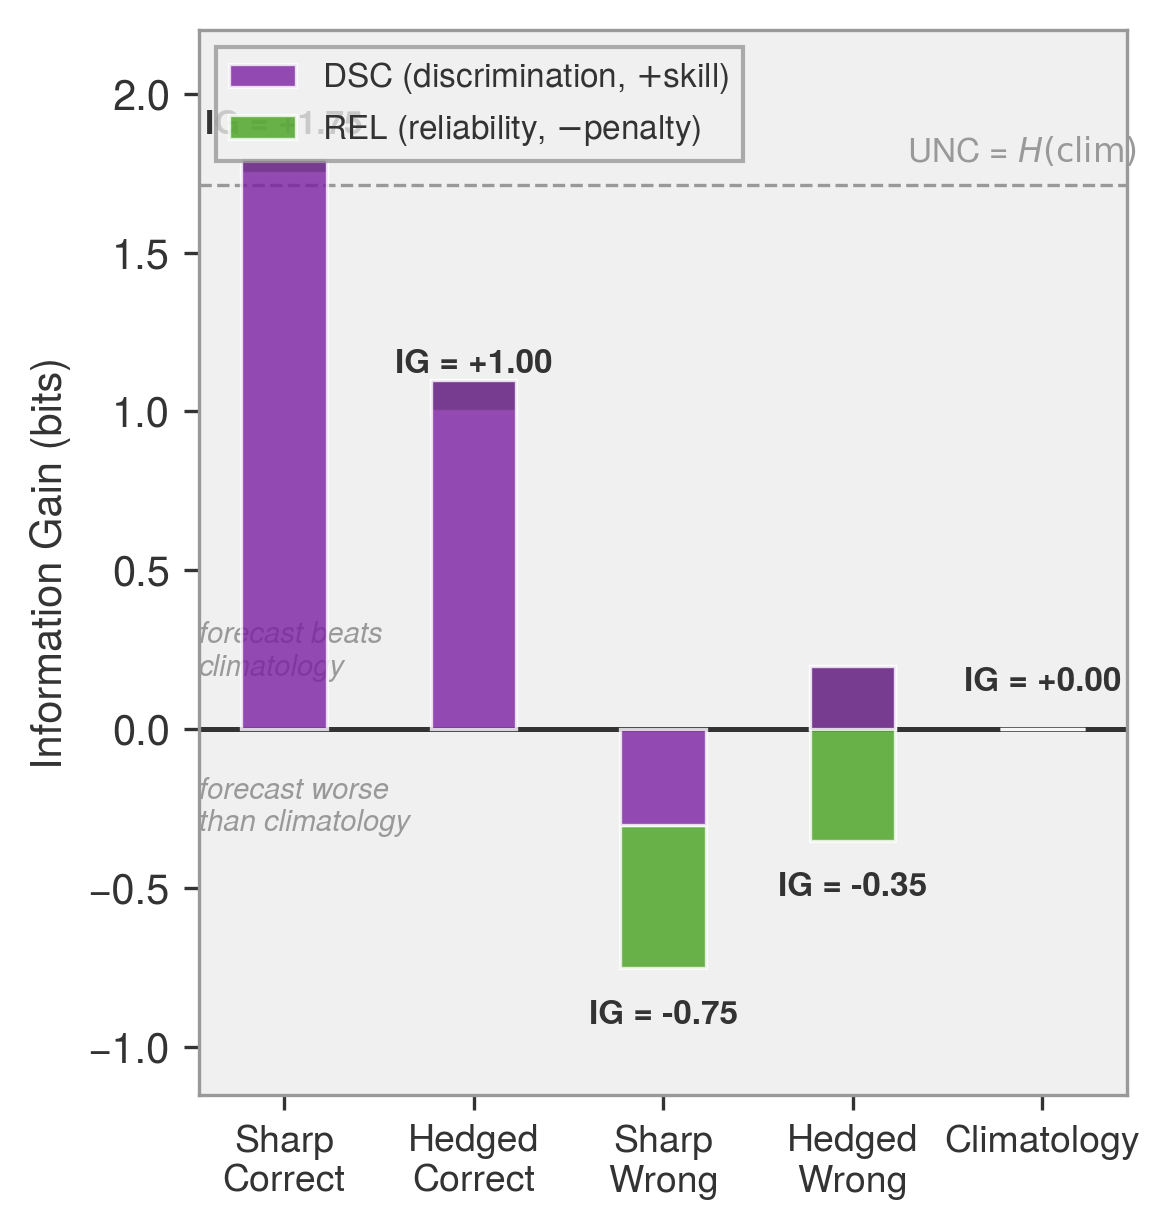
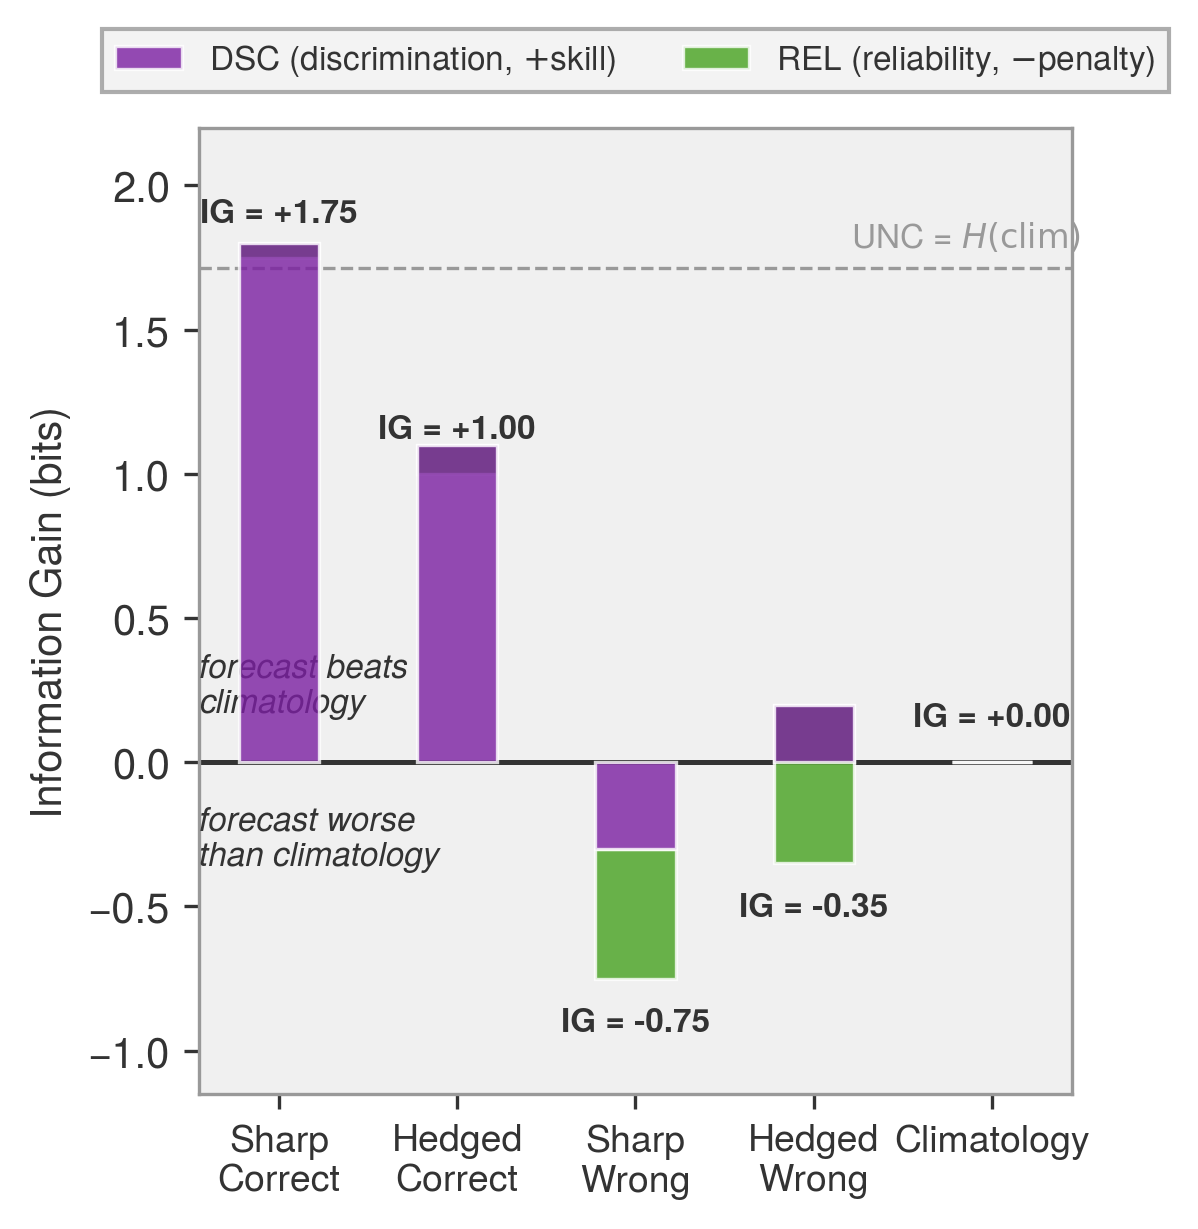
Annotation clarity: bold-first labels, green arrows, H_Pi gaps, overbar text
Fig 1: bold plain-language name above each equation annotation.
Fig 2: green connection arrows, y=1 annotation, y-axes-differ note.
Fig 3: legend outside axes, region labels stronger (8pt, darker).
Fig 10: per-panel H_Pi gap bracket with dashed Pi_max line.
§4 LaTeX: overbar text now non-prescriptive (practitioner chooses
aggregation); anchor → scenario in commitment-diagram discussion.

diff --git a/scripts/fig_pignistic_bridge.py b/scripts/fig_pignistic_bridge.py
@@ -67,7 +67,11 @@ def main():
     ax_l.set_title("Raw Possibility Distribution", fontsize=10,
                     fontweight="bold", pad=8)
     ax_l.set_ylim(0, 1.10)
-    ax_l.axhline(1.0, linestyle=":", linewidth=0.6, color=MID_GREY, zorder=1)
+    ax_l.axhline(1.0, linestyle="--", linewidth=0.8, color=GREEN, zorder=1,
+                 alpha=0.7)
+    ax_l.text(SPC_N - 0.6, 1.03,
+              r"$\pi = 1$ (no ignorance)",
+              fontsize=7.5, fontstyle="italic", color=GREEN, ha="right")
 
     # --- Right panel: (n+1)-category probability distribution ---
     right_labels = list(SPC_CATEGORIES) + ["IGN"]
@@ -97,7 +101,7 @@ def main():
         con = ConnectionPatch(
             xyA=(x_left[i], pi[i]), coordsA=ax_l.transData,
             xyB=(x_right[i], p_cats[i]), coordsB=ax_r.transData,
-            arrowstyle="->", color=MID_GREY, linewidth=0.8,
+            arrowstyle="->", color=GREEN, linewidth=0.8,
             connectionstyle="arc3,rad=0.12",
         )
         fig.add_artist(con)
@@ -107,7 +111,7 @@ def main():
         xyA=(x_left[int(np.argmax(pi))], pi.max()),
         coordsA=ax_l.transData,
         xyB=(SPC_N, p_ign), coordsB=ax_r.transData,
-        arrowstyle="->", color=MID_GREY, linewidth=0.8,
+        arrowstyle="->", color=GREEN, linewidth=0.8,
         linestyle="--", connectionstyle="arc3,rad=0.25",
     )
     fig.add_artist(con_ign)
@@ -121,7 +125,14 @@ def main():
         ha="center", va="bottom", fontsize=9, color=DARK_GREY,
     )
 
-    fig.subplots_adjust(left=0.08, right=0.96, bottom=0.12, top=0.92,
+    # Note about differing y-axes
+    fig.text(0.50, 0.95, "Note: y-axes differ",
+             ha="center", va="top", fontsize=8, fontstyle="italic",
+             color=GREEN,
+             bbox=dict(boxstyle="round,pad=0.3", facecolor="white",
+                       edgecolor=GREEN, linewidth=0.8, alpha=0.9))
+
+    fig.subplots_adjust(left=0.08, right=0.96, bottom=0.12, top=0.88,
                         wspace=0.40)
     save_fig(fig, "pignistic_bridge")
 

diff --git a/scripts/fig_possibility_anatomy.py b/scripts/fig_possibility_anatomy.py
@@ -34,8 +34,12 @@ def main():
 
     # --- Annotation: Pi_max dashed line ---
     ax.axhline(pi_max, linestyle="--", linewidth=1.0, color=DARK_GREY, zorder=2)
-    ax.text(SPC_N - 0.5, pi_max - 0.03,
-            r"$\Pi_{\max}$" + f" = {pi_max:.2f}" + "\n(peak plausibility)",
+    ax.text(SPC_N - 0.5, pi_max - 0.02,
+            "Peak plausibility",
+            ha="right", va="top", fontsize=9, fontweight="bold",
+            color=DARK_GREY)
+    ax.text(SPC_N - 0.5, pi_max - 0.11,
+            r"$\Pi_{\max}$" + f" = {pi_max:.2f}",
             ha="right", va="top", fontsize=9, color=DARK_GREY)
 
     # --- Annotation: H_Pi bracket on the right side ---
@@ -51,19 +55,26 @@ def main():
             color=DARK_GREY, linewidth=1.0, zorder=4)
     # Label
     mid_y = (pi_max + 1.0) / 2.0
-    ax.text(bracket_x + 0.15, mid_y,
-            r"$H_\Pi$" + f" = {h_pi:.2f}" + "\n(admitted ignorance)",
+    ax.text(bracket_x + 0.15, mid_y + 0.05,
+            "Admitted ignorance",
+            ha="left", va="center", fontsize=9, fontweight="bold",
+            color=DARK_GREY)
+    ax.text(bracket_x + 0.15, mid_y - 0.05,
+            r"$H_\Pi$" + f" = {h_pi:.2f}",
             ha="left", va="center", fontsize=9, color=DARK_GREY)
 
     # --- Annotation: N_c for the peak category ---
     ax.annotate(
-        r"$N_c$" + f" = {SPC_CATEGORIES[peak_idx]}" + "\n(most certain category)",
+        "Most certain category",
         xy=(peak_idx, pi[peak_idx]),
-        xytext=(peak_idx - 1.2, pi[peak_idx] + 0.22),
-        fontsize=9, color=DARK_GREY,
+        xytext=(peak_idx - 1.2, pi[peak_idx] + 0.28),
+        fontsize=9, fontweight="bold", color=DARK_GREY,
         arrowprops=dict(arrowstyle="->", color=DARK_GREY, lw=1.0),
         ha="center", va="bottom",
     )
+    ax.text(peak_idx - 1.2, pi[peak_idx] + 0.19,
+            r"$N_c$" + f" = {SPC_CATEGORIES[peak_idx]}",
+            fontsize=9, color=DARK_GREY, ha="center", va="bottom")
 
     # Axes
     ax.set_xticks(x)

diff --git a/sections/05-native-verification.tex b/sections/05-native-verification.tex
@@ -190,9 +190,11 @@ $\Nc^*$ & Among scenarios the system covered, was the truth dominant
 \end{tabularx}
 \renewcommand{\arraystretch}{1.0}
 
-Aggregates $\overline{\alpha^*}$, $\overline{\eta}$,
-$\overline{\delta}$, $\overline{\ign}$, $\overline{\Nc^*}$ are reported
-with bootstrap confidence intervals.
+Overbar notation ($\overline{\alpha^*}$, $\overline{\eta}$, etc.)
+denotes summary statistics computed over the verification sample;
+the specific aggregation function (mean, median, or other robust
+estimator) and uncertainty quantification method are left to the
+practitioner.
 
 \textbf{Permutation invariance and ordinal domains.}
 The five scorecard metrics are permutation-invariant: they treat
@@ -247,8 +249,8 @@ discrimination).  These axes are orthogonal---$\pi_{\max}$ is the raw
 \textit{Reading the commitment diagram:} upper right is committed and
 discriminating (ideal); lower right is overconfident and wrong; upper
 left is the cautious forecast that got the shape right.  Below the
-$\delta = 0$ line, the forecast failed to discriminate.  Anchor~C
-(sharp-wrong) sits squarely in the overconfident quadrant; Anchor~B
+$\delta = 0$ line, the forecast failed to discriminate.  Scenario~C
+(sharp-wrong) sits squarely in the overconfident quadrant; Scenario~B
 (hedged-correct) sits in the cautious-discriminating region---a
 distinction invisible in the shape-quality diagram.
 
@@ -267,7 +269,7 @@ distinction invisible in the shape-quality diagram.
     \textbf{Hex bins:} coloured by count.
     \textbf{Green line:} category means from \spc{NONE} (upper right)
     to \spc{HIGH} (lower left).
-    \textbf{Stars:} Section~\ref{sec:worked_examples} anchors.
+    \textbf{Stars:} Section~\ref{sec:worked_examples} scenarios.
     Upper right = committed \& discriminating.
     Lower right = overconfident \& wrong.
     Dashed line = $\delta = 0$ break-even.}

diff --git a/scripts/fig_three_scenario.py b/scripts/fig_three_scenario.py
@@ -97,10 +97,31 @@ def main():
         # Reference line at 1.0
         ax.axhline(1.0, linestyle=":", linewidth=0.6, color=MID_GREY, zorder=1)
 
+        # H_Pi gap annotation
+        pi_max = pi.max()
+        h_pi = 1.0 - pi_max
+
+        # Dashed line at Pi_max
+        ax.axhline(pi_max, linestyle="--", linewidth=0.8, color=DARK_GREY,
+                   alpha=0.5, zorder=2)
+
+        # Small bracket on right side
+        bx = SPC_N - 0.55
+        ax.plot([bx, bx], [pi_max, 1.0],
+                color=DARK_GREY, lw=0.7, zorder=4)
+        ax.plot([bx - 0.05, bx + 0.05], [1.0, 1.0],
+                color=DARK_GREY, lw=0.7, zorder=4)
+        ax.plot([bx - 0.05, bx + 0.05], [pi_max, pi_max],
+                color=DARK_GREY, lw=0.7, zorder=4)
+        mid_gap = (pi_max + 1.0) / 2.0
+        ax.text(bx + 0.12, mid_gap,
+                r"$H_\Pi$" + f"={h_pi:.2f}",
+                fontsize=7, color=DARK_GREY, ha="left", va="center")
+
         ax.set_xticks(x)
         ax.set_xticklabels(SPC_CATEGORIES, fontsize=8)
         ax.set_title(title, fontsize=10, fontweight="bold", pad=8)
-        ax.set_ylim(0, 1.15)
+        ax.set_ylim(0, 1.20)
 
         # Compute scorecard
         sc = compute_scorecard(pi, obs)

diff --git a/scripts/fig_ig_decomposition.py b/scripts/fig_ig_decomposition.py
@@ -118,16 +118,18 @@ def main():
     # Skill / no-skill region labels
     ax.text(
         -0.45, 0.15, "forecast beats\nclimatology",
-        fontsize=7, color=MID_GREY, fontstyle="italic", va="bottom",
+        fontsize=8, color=DARK_GREY, fontstyle="italic",
+        fontweight="medium", va="bottom",
     )
     ax.text(
         -0.45, -0.15, "forecast worse\nthan climatology",
-        fontsize=7, color=MID_GREY, fontstyle="italic", va="top",
+        fontsize=8, color=DARK_GREY, fontstyle="italic",
+        fontweight="medium", va="top",
     )
 
     ax.legend(
-        loc="upper left", fontsize=8, frameon=True, fancybox=False,
-        edgecolor=MID_GREY,
+        bbox_to_anchor=(0.5, 1.02), loc="lower center", ncol=2,
+        fontsize=8, frameon=True, fancybox=False, edgecolor=MID_GREY,
     )
 
     fig.tight_layout()
